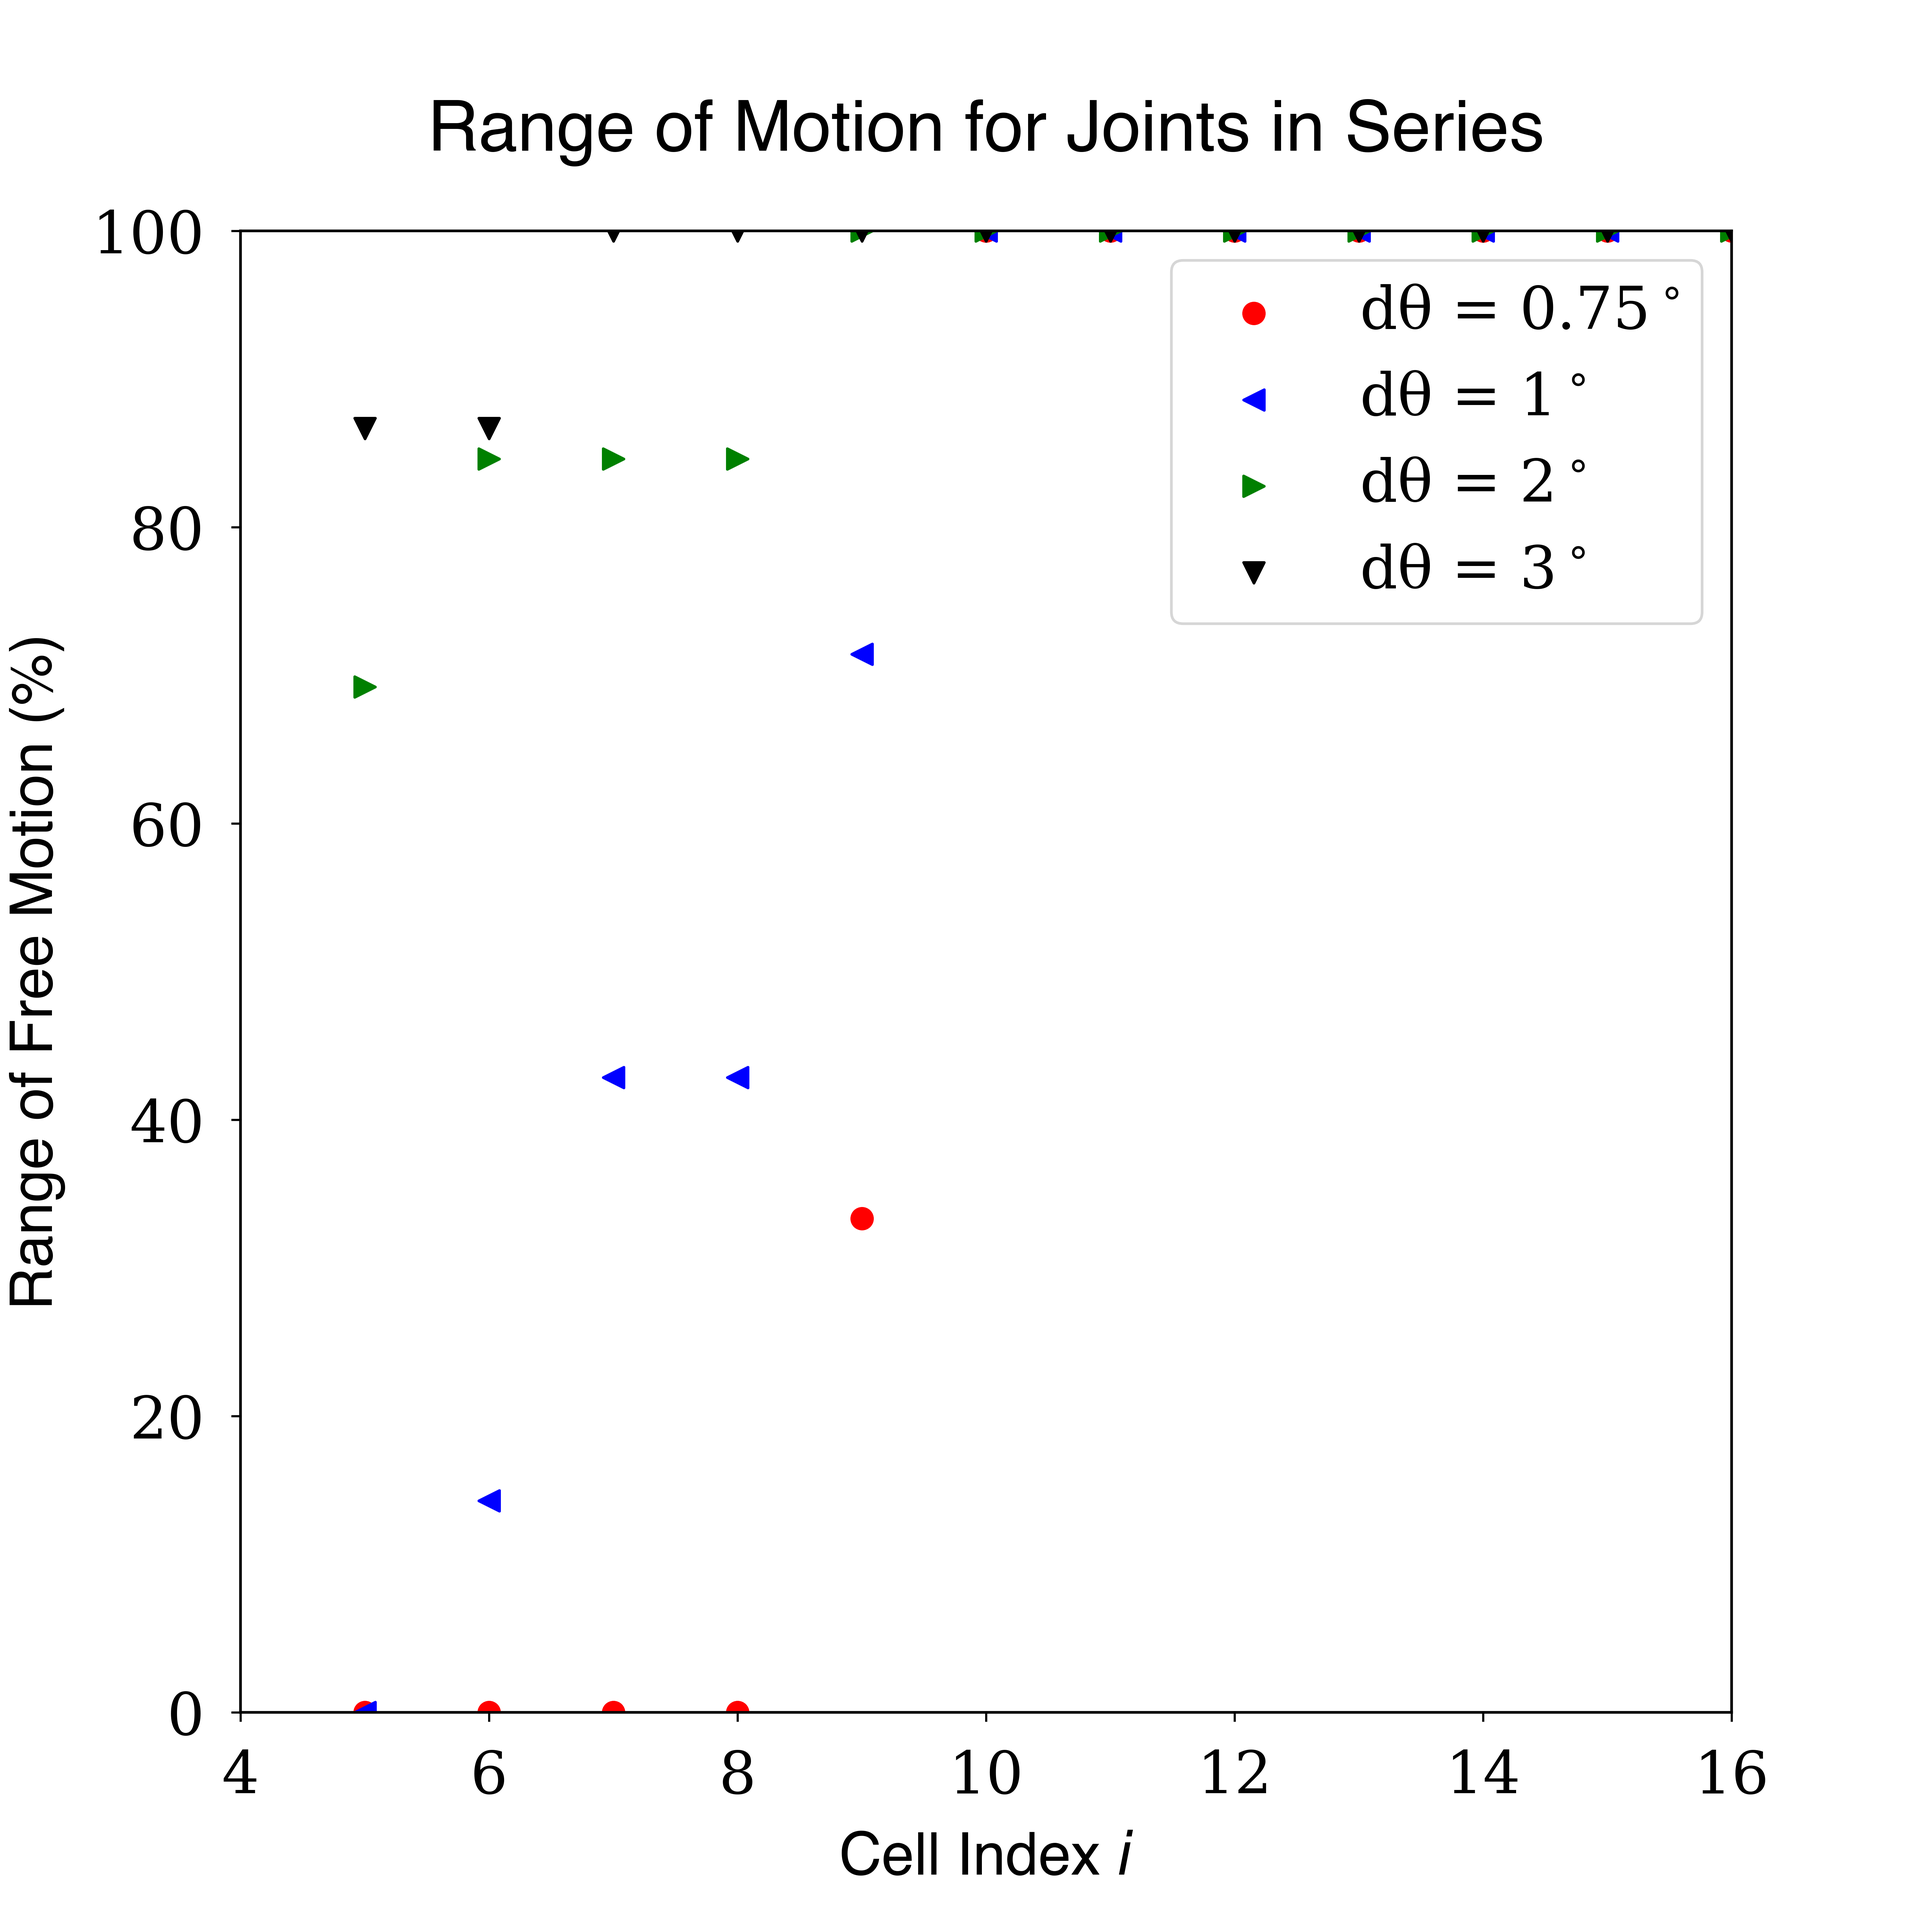
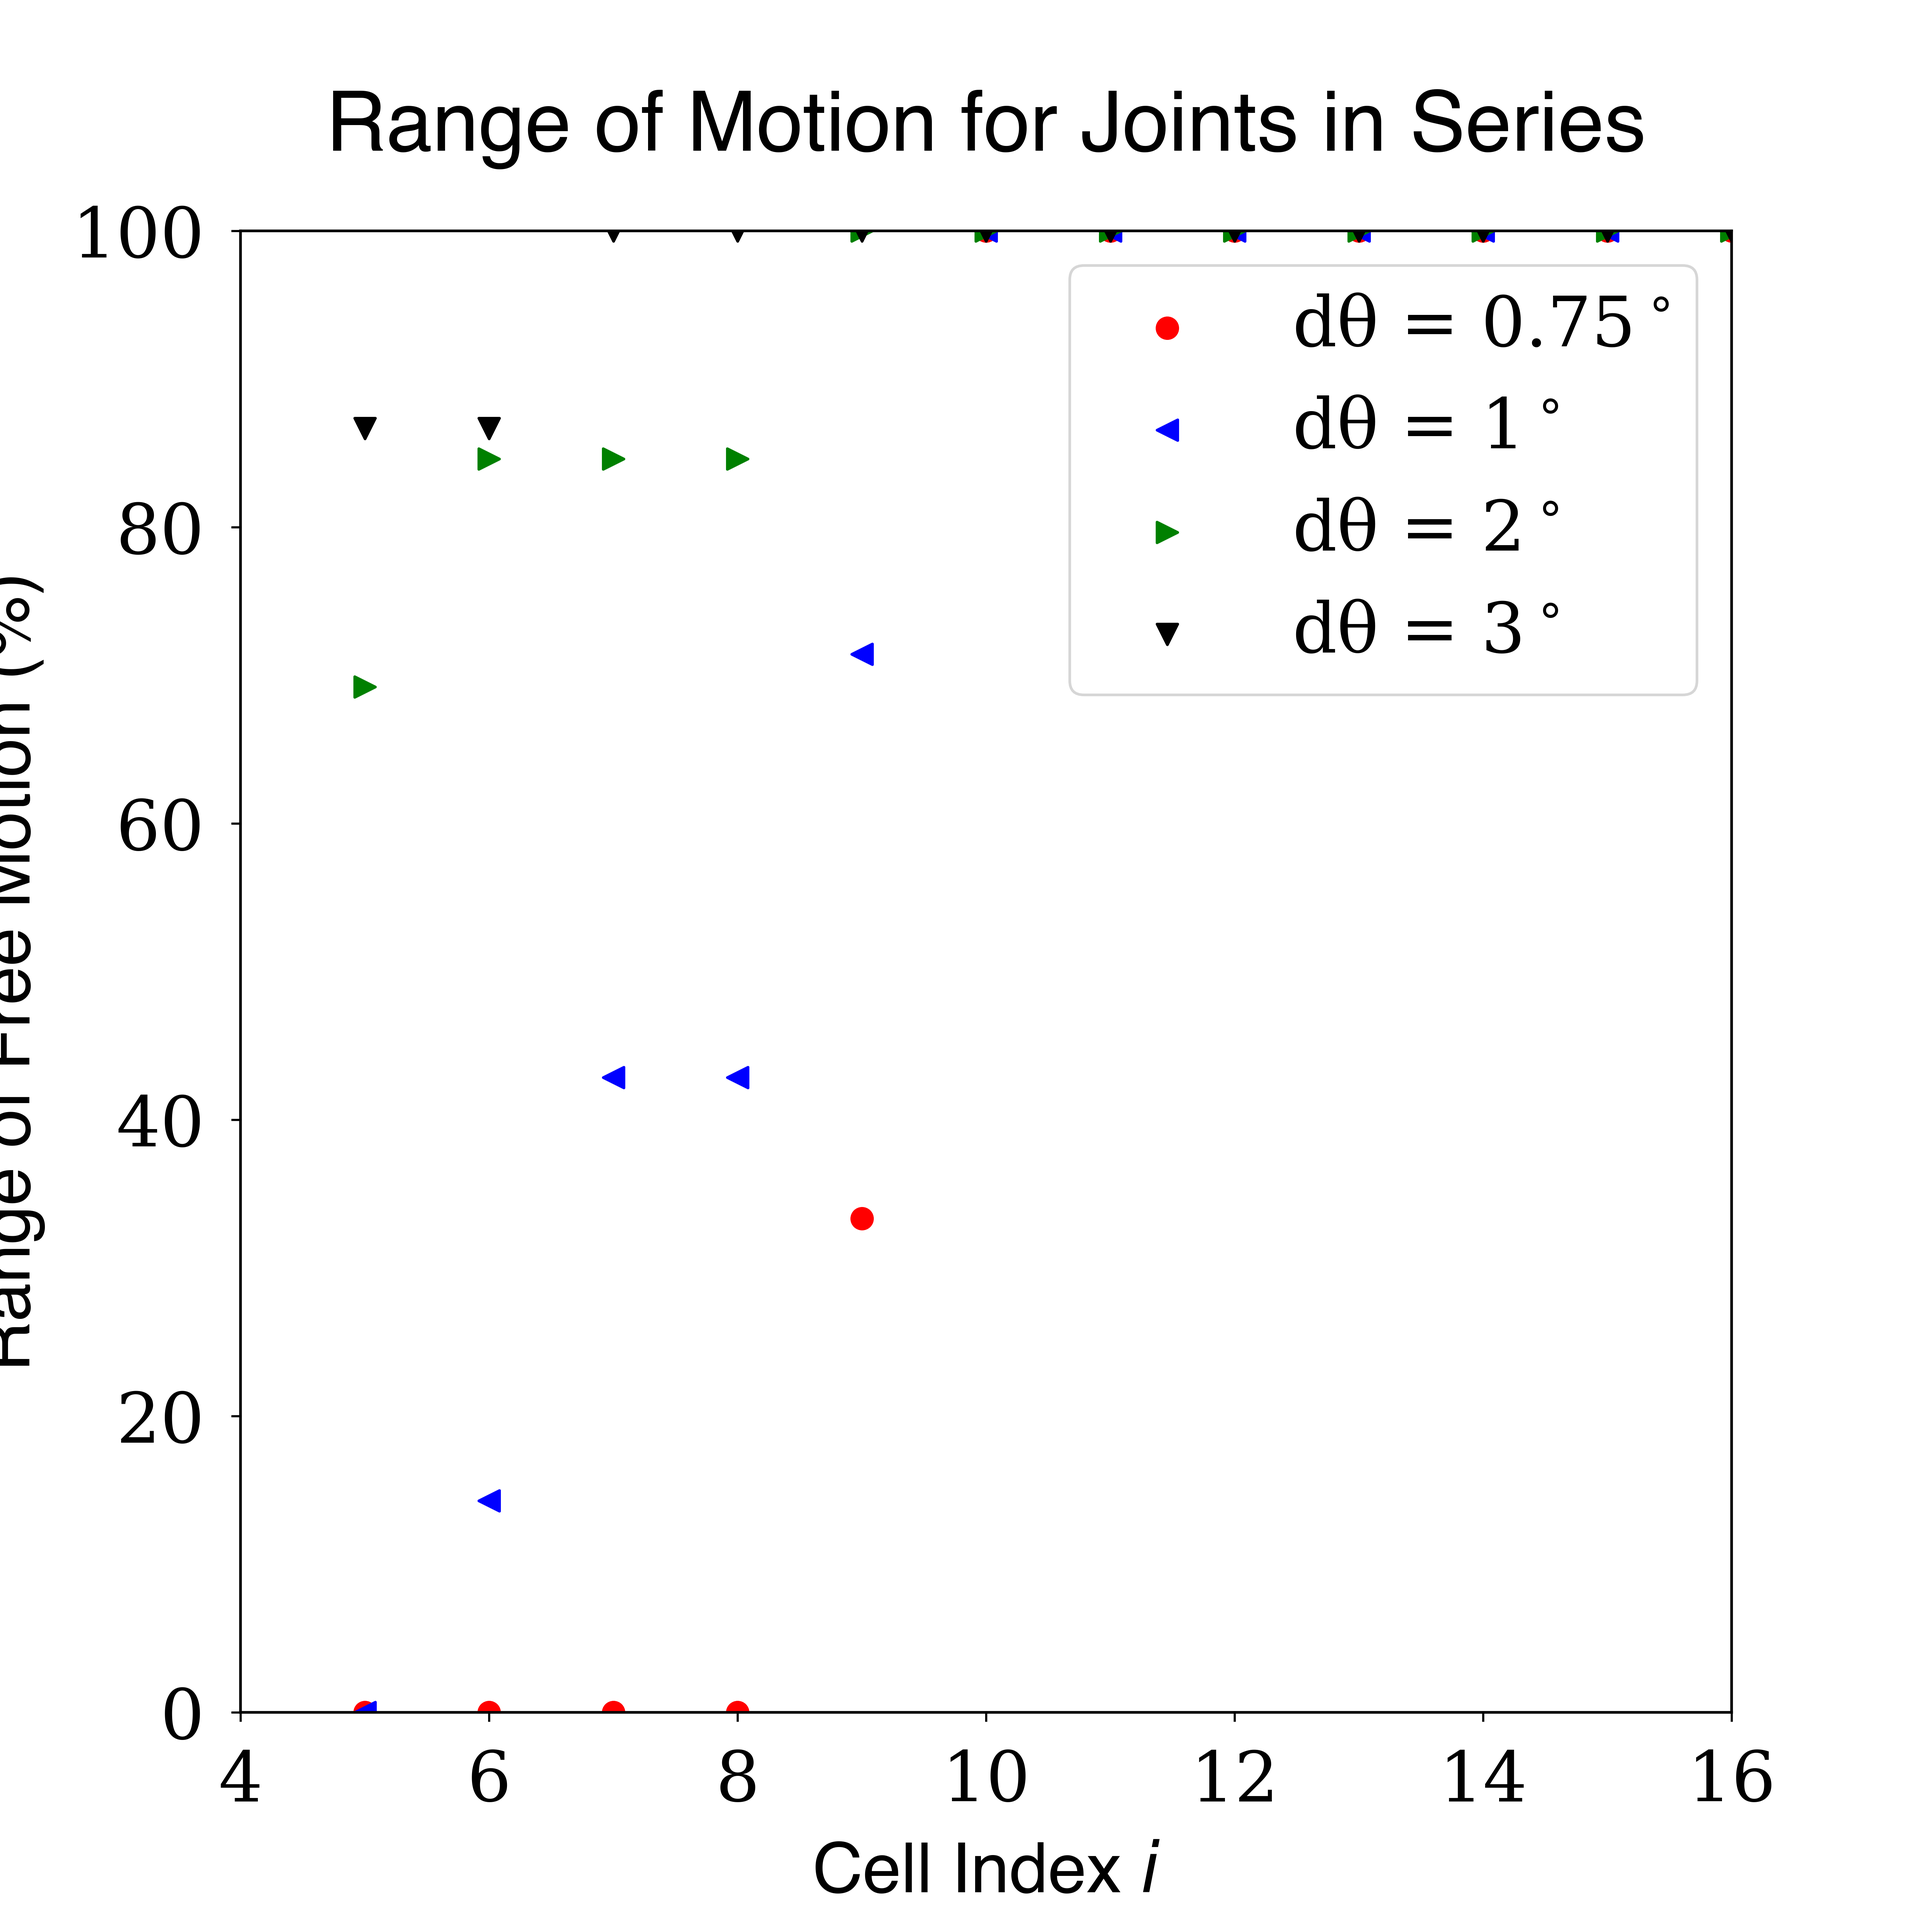
refactoring

diff --git a/main_1D_dofs.py b/main_1D_dofs.py
@@ -12,7 +12,7 @@ from matplotlib.ticker import MaxNLocator
 import matplotlib.ticker as mticker
 
 font = {'family': 'serif',
-        'size': 22}
+        'size': 26}
 csfont = {'fontname': 'Helvetica'}
 
 matplotlib.rc('font', **font)
@@ -210,15 +210,15 @@ def plot_figure_2():
     plt.step(angle_settings, dof_result_1deg, '-o', color=next(colors), where='post', label="Δθ = 1$^\circ$")
     plt.step(angle_settings, dof_result_2deg, '-o', color=next(colors), where='post', label="Δθ = 2$^\circ$")
     plt.step(angle_settings, dof_result_3deg, '-o', color=next(colors), where='post', label="Δθ = 3$^\circ$")
-    plt.title("Varying DoF of 20 Revolute Joints in Series", **csfont)
-    plt.xlabel("Fixed Angle of Cell i=0 in 1D Chain ", **csfont)
-    plt.ylabel("Number of Free Revolute Cells", **csfont)
+    ax.set_title("Variable DoF - 20 Revolute Joints in Series", pad=30, **csfont)
+    plt.xlabel(r"Range of $\Theta$ [Degrees]", **csfont, fontsize=30)
+    plt.ylabel("Number of Free Revolute Cells", **csfont, fontsize=30)
     ax.yaxis.set_major_locator(MaxNLocator(integer=True))  # Force matplotlib to only use integers on axis markings
     plt.xlim([5, 20])
     plt.ylim((-0.5, 20))
     ax.xaxis.labelpad = 6
     ax.yaxis.labelpad = 6
-    plt.legend()
+    plt.legend(loc=1)
     plt.xticks(np.arange(5, 21, 2.5))
     plt.yticks(np.arange(0, 21, 2))
     ax.tick_params(axis='both', which='major', pad=10)
@@ -231,8 +231,8 @@ def plot_figure_2():
     # # for pcolormesh --> , shading='flat', vmin=DO_list.min(), vmax=DO_list.max()
     # sc = ax.scatter(angle_list, backlash_list, c=DO_list)
     # # z_for_plot = np.array([[i*i + j*j for j in backlash_list for i in angle_list]])
-    # ax.set_title("Max DO Distance - Varying Backlash and Angle")
-    # ax.set_xlabel('Fixed Angle of Cell i=0')
+    # ax.set_title("Max DO Distance - Variable Backlash and Angle")
+    # ax.set_xlabel(r"Range of $\Theta$ [Degrees]")
     # ax.set_ylabel(r"$\Delta \Theta_i$")
     # ax.xaxis.labelpad = 6
     # ax.yaxis.labelpad = 6
@@ -250,9 +250,9 @@ def plot_figure_2():
     cmaplist[0] = (0.5, 0.5, 0.5, 1.0)  # grey base color
     cmap = matplotlib.colors.LinearSegmentedColormap.from_list('custom', cmaplist, cmap.N)
     sc = plt.tricontourf(angle_list, backlash_list, DO_list, cmap=cmap)
-    ax.set_title("DO Distance - Varying Backlash and Angle", pad=30, **csfont)
-    ax.set_xlabel('Fixed Angle of Cell i=0', **csfont)
-    ax.set_ylabel(r"$\Delta \Theta_i$", **csfont)
+    ax.set_title("DO Distance - Variable Backlash and Angle", pad=30, **csfont)
+    ax.set_xlabel(r"Range of $\Theta$ [Degrees]", **csfont, fontsize=30)
+    ax.set_ylabel(r"$\Delta \Theta_i$", **csfont, fontsize=30)
     ax.xaxis.labelpad = 6
     ax.yaxis.labelpad = 6
     ax.tick_params(axis='both', which='major', pad=10)
@@ -275,9 +275,9 @@ def plot_figure_2():
     cmaplist[0] = (0.5, 0.5, 0.5, 1.0)  # grey base color
     cmap = matplotlib.colors.LinearSegmentedColormap.from_list('custom', cmaplist, cmap.N)
     sc = plt.tricontourf(angle_list, backlash_list, dDO_dx[1], cmap=cmap, vmin=0, vmax=7)
-    ax.set_title(r"$\frac{dDO}{dx}$ - Varying Backlash and Angle", pad=30, **csfont)
-    ax.set_xlabel('Fixed Angle of Cell i=0', **csfont)
-    ax.set_ylabel(r"$\Delta \Theta_i$", **csfont)
+    ax.set_title(r"$\frac{dDO}{dx}$ - Variable Backlash and Angle", pad=30, **csfont)
+    ax.set_xlabel(r"Range of $\Theta$ [Degrees]", **csfont, fontsize=30)
+    ax.set_ylabel(r"$\Delta \Theta_i$", **csfont, fontsize=30)
     ax.xaxis.labelpad = 6
     ax.yaxis.labelpad = 6
     ax.tick_params(axis='both', which='major', pad=10)
@@ -289,7 +289,7 @@ def plot_figure_2():
     plt.savefig("./figures/figure2_DO_mapping_to_b_and_angle_ddx.png", dpi=600)
     plt.close()
 
-    fig = plt.figure(10, figsize=(6, 6))
+    fig = plt.figure(10, figsize=(10, 10))
     ax = fig.add_subplot()
     # y1 = np.polyfit(angle_settings, [(9 - i) / 9 for i in dof_result[0]], 3)
     # y2 = np.polyfit(angle_settings, [(9 - i) / 9 for i in dof_result[1]], 3)

diff --git a/main_in_2D.py b/main_in_2D.py
@@ -6,6 +6,9 @@ from itertools import *
 import numpy as np
 import matplotlib.pyplot as plt
 
+# References
+# even spaced points on a convex hull
+# https://stackoverflow.com/questions/75416188/get-evenly-spaced-points-from-a-curved-shape
 
 class AuxeticCell:
     # Class to describe an individual auxetic bilayer cell
